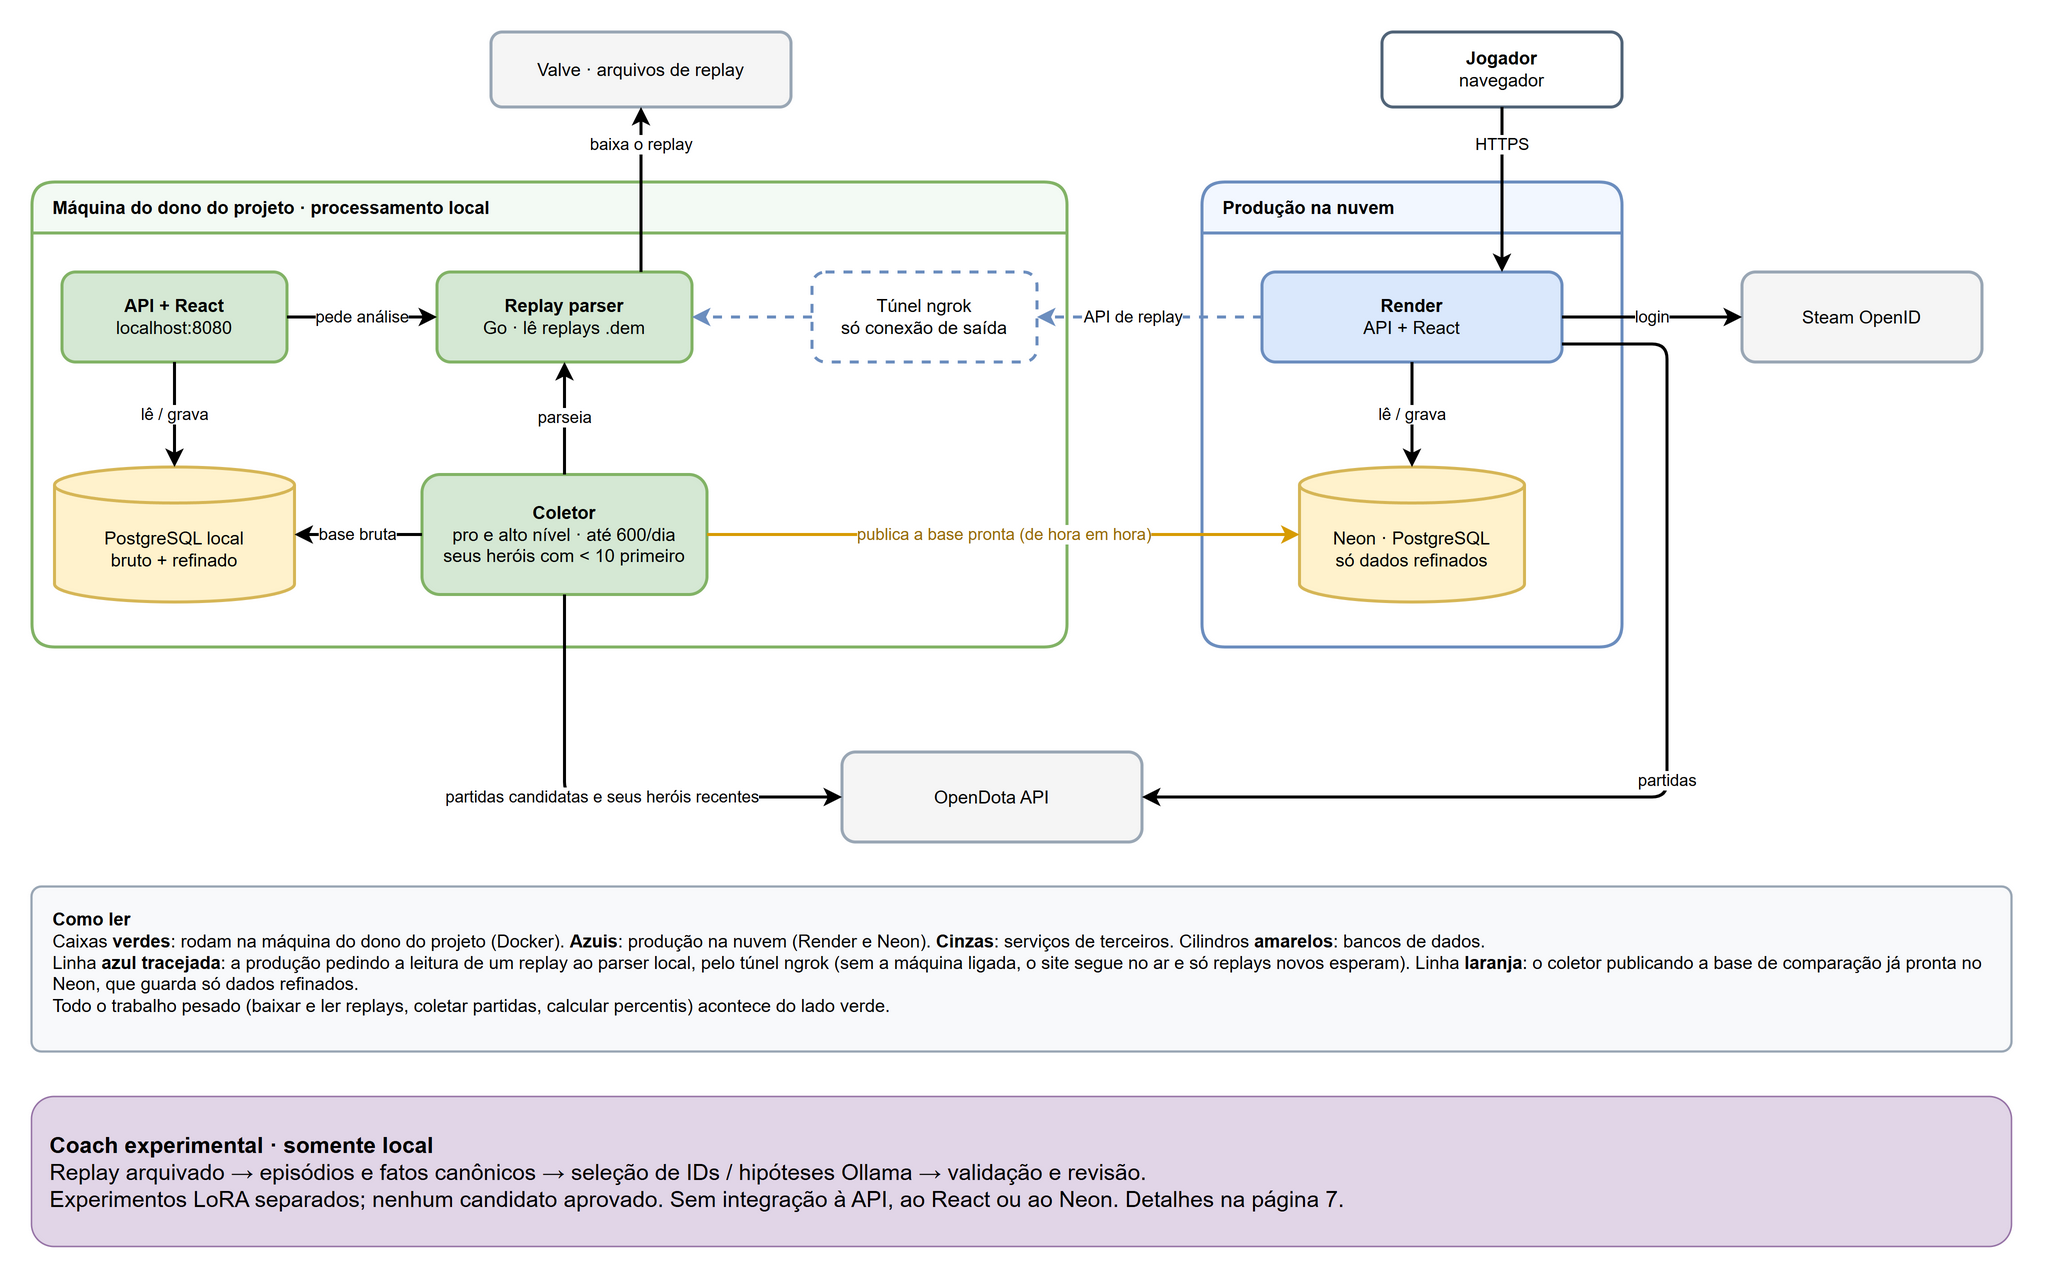
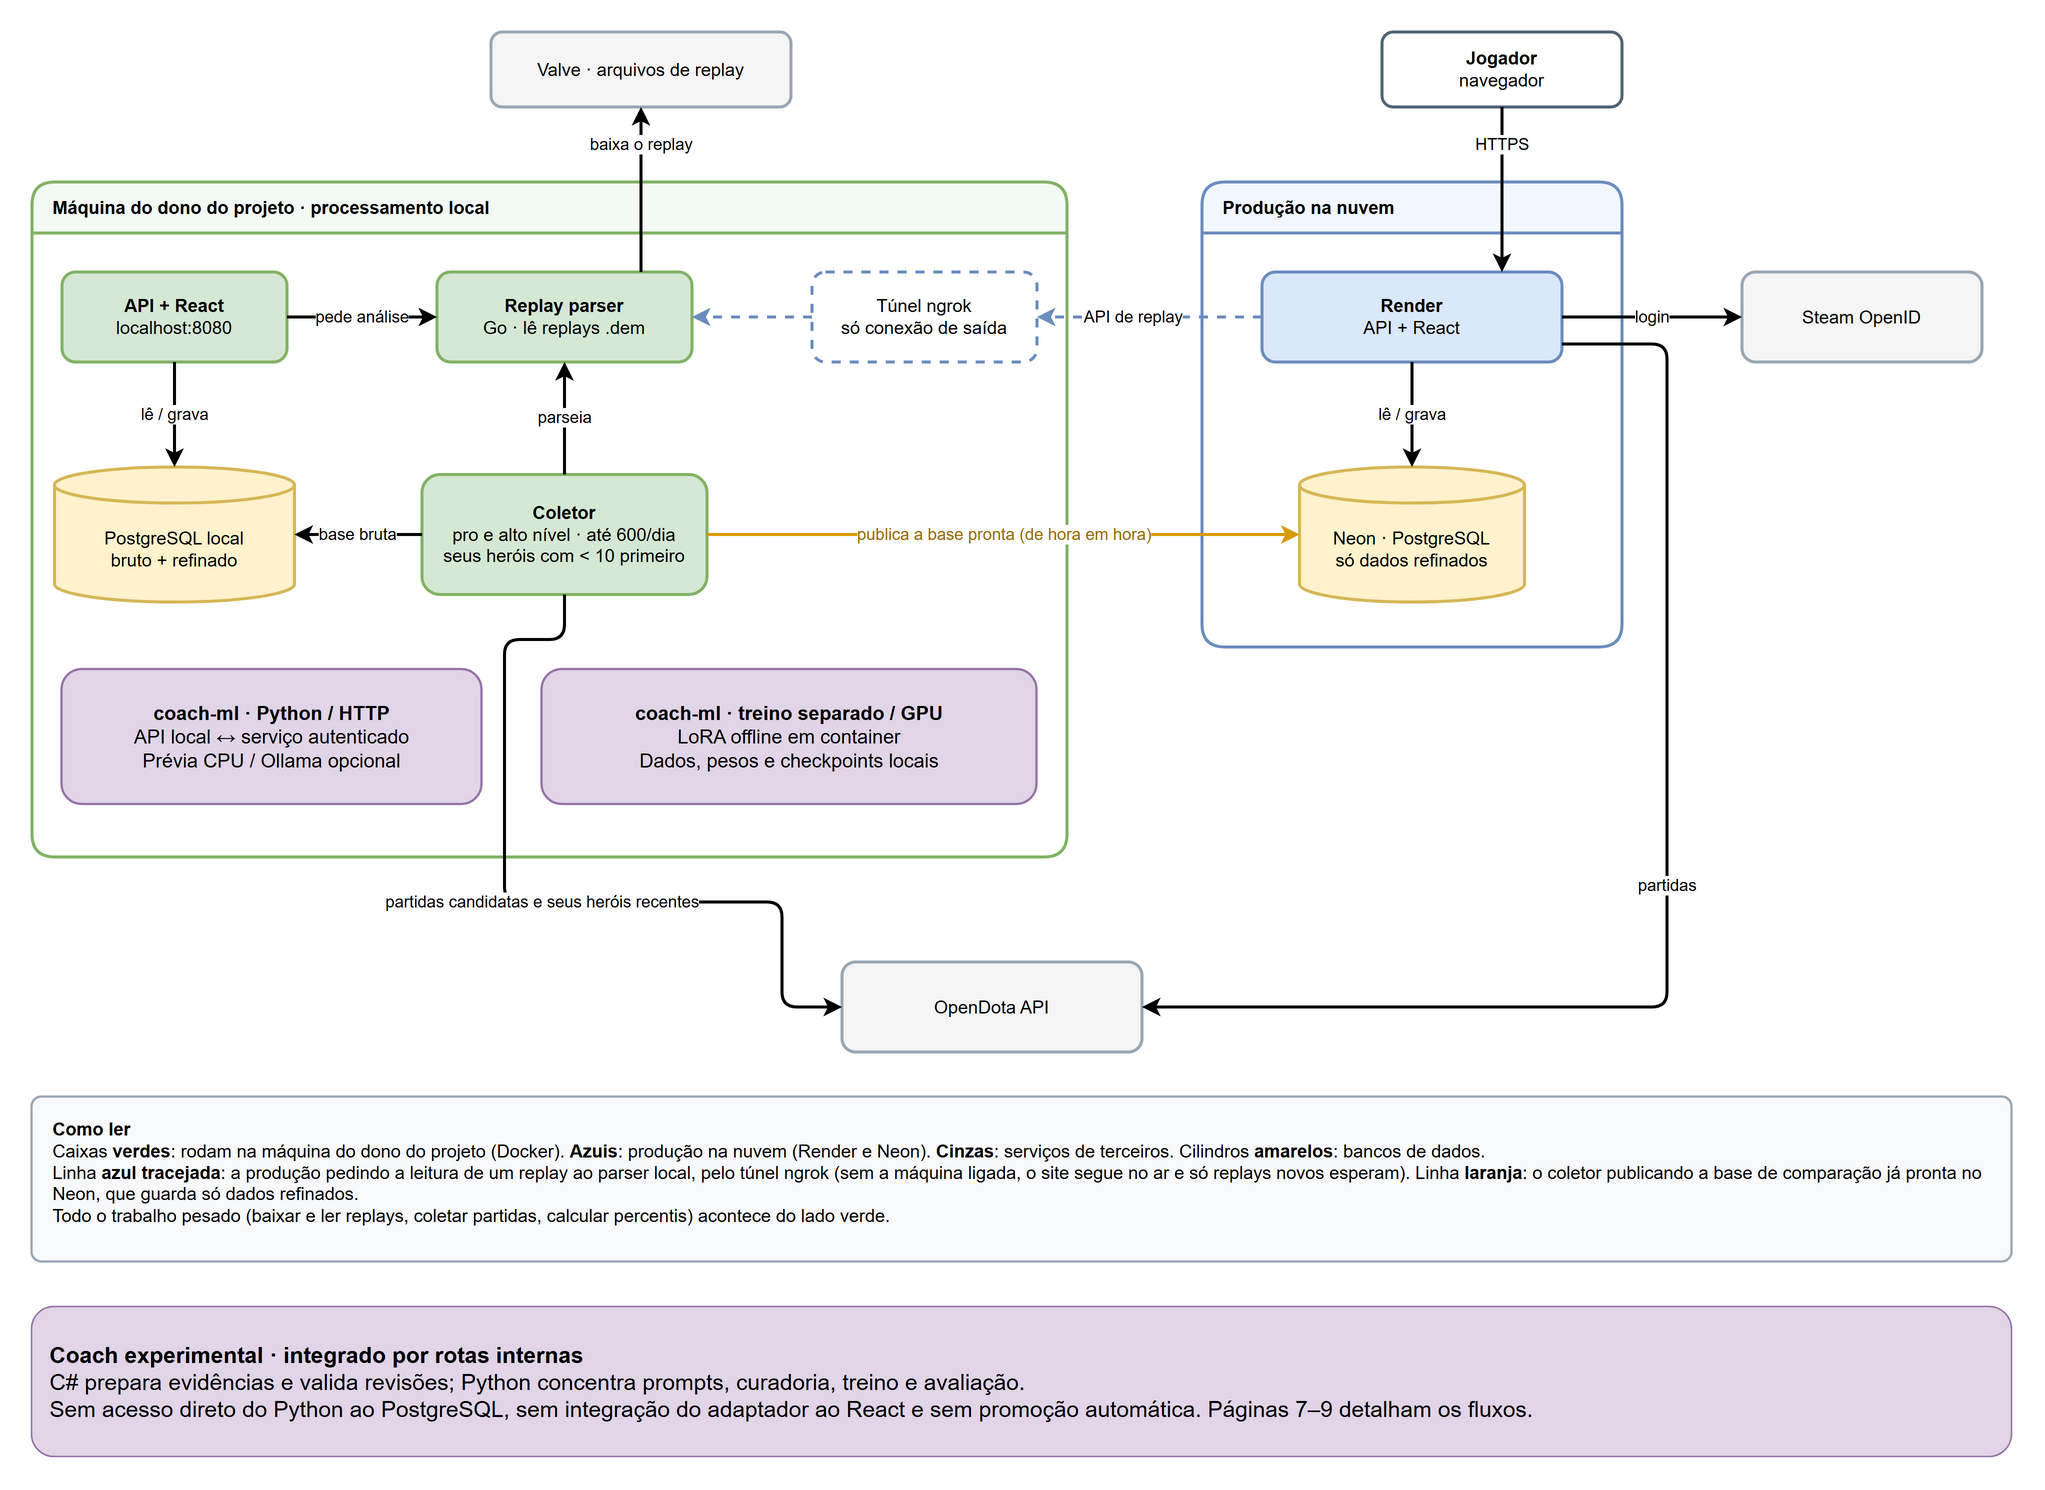
docs: update architecture diagrams for Python coaching and training

diff --git a/README.md b/README.md
@@ -36,7 +36,7 @@ O backend inclui um fluxo experimental para a aba **Como melhorar**, integrado p
 
 Os contratos e testes ficam nas pastas `Coaching` de Domain, Application e Infrastructure. O projeto [coach-ml](coach-ml/README.md) concentra curadoria, auditoria, treino, avaliação e serviço HTTP Python. A API C# entrega contextos de replays arquivados e consome revisões por rotas internas autenticadas; o Python pode buscar esses contextos por callback. O perfil Docker `coach-ml` inicia o serviço, com prévia por política em CPU por padrão e Ollama configurável. As dicas públicas continuam nas regras existentes. Dados, conjuntos de avaliação e pesos locais não são distribuídos pelo repositório; `docker compose up` não inicia treino nem instala modelos.
 
-A [estrutura de aprendizado](docs/coach-learning.md) documenta a separação entre dados, curadoria, treino e avaliação. O projeto Python audita treino/validação juntos, produz conjuntos sem entradas repetidas, confere orçamento de tokens e avalia previsões por competência. Esses controles verificam integridade e limites dos exemplos, sem conceder aprovação tática.
+A [documentação do coach-ml](coach-ml/README.md) descreve a separação entre dados, curadoria, treino e avaliação. O projeto Python audita treino/validação juntos, produz conjuntos sem entradas repetidas, confere orçamento de tokens e avalia previsões por competência. Esses controles verificam integridade e limites dos exemplos, sem conceder aprovação tática.
 
 O próximo experimento usa seis competências e uma política contextual versionada: cada exercício aponta para instantes/registros concretos e pede uma anotação verificável no replay. São 34.827 exemplos de treino e 3.442 de validação nas mesmas 968/96 partidas. **Registro de 18/10/2026:** o treino Python em container, na GPU, foi iniciado e pausado a pedido do usuário em 42,9%; o ensaio GPU e o primeiro checkpoint passaram nas verificações. Esse registro não é um indicador de execução em tempo real. Não há modelo treinado promovido ao serviço nem aprendizado automático a cada replay.
 
@@ -146,7 +146,7 @@ Regras de arquitetura, decisões e detalhes de cada parte: [`CLAUDE.md`](CLAUDE.
 
 ## Diagramas
 
-Os diagramas abaixo são exibidos diretamente no README. O arquivo-fonte editável está em [`docs/diagrams/dotaanalyst.drawio`](docs/diagrams/dotaanalyst.drawio) e pode ser aberto no draw.io.
+Os diagramas abaixo são exibidos diretamente no README. O arquivo-fonte editável, com nove páginas, está em [`docs/diagrams/dotaanalyst.drawio`](docs/diagrams/dotaanalyst.drawio) e pode ser aberto no draw.io. O [índice e as instruções de exportação](docs/diagrams/README.md) mantêm as imagens alinhadas à fonte.
 
 ### Arquitetura
 
@@ -158,11 +158,23 @@ Os diagramas abaixo são exibidos diretamente no README. O arquivo-fonte editáv
 
 ### Coach experimental
 
-O fluxo abaixo é local e separado da análise servida ao jogador. Revisão estrutural e avaliação de conteúdo são etapas distintas; os experimentos de treino ainda não produziram um candidato aprovado.
+O fluxo abaixo usa integração interna autenticada entre C# e Python. O serviço de revisão é separado do treinador; as dicas públicas seguem as regras existentes. Validação estrutural e avaliação de conteúdo são etapas distintas, sem adaptador promovido ao produto.
 
 A observação determinística e o contrato de reflexão v2 permanecem preservados. A projeção qualitativa v3 (`PrepareBoundedCoaching`) distingue disponibilidade de distância na âncora e cobertura do episódio posterior; `PrepareAliasedCoaching` substitui IDs por aliases e restaura as referências no backend. A projeção temporal v4 (`PrepareTemporalCoaching`) compara a distância registrada ao mesmo aliado entre a âncora e dez segundos antes, informa a cobertura intermediária e mantém valores e tempos de proveniência no backend. Essas amostras não reconstroem trajeto, visão, intenção ou causa do resultado. Validação de formato e referências não aprova o conteúdo tático.
 
-![Coach experimental: episódios, fatos canônicos, reflexão e avaliação antes de qualquer promoção](docs/diagrams/images/coaching.png)
+![Coach experimental: evidências no C#, revisão Python, validação e limites do produto](docs/diagrams/images/coaching.png)
+
+### Curadoria, treinamento e avaliação do modelo
+
+O Python separa partidas, prepara os exemplos, audita dados e orçamento de tokens, confere o pior microbatch na GPU e congela o experimento. O treino salva checkpoints selados; a comparação base versus adaptado e o review vêm antes de qualquer decisão de promoção. O teste reservado permanece separado.
+
+![Pipeline Python: corpus, curadoria, auditoria, preparo GPU, LoRA, checkpoints, avaliação e review](docs/diagrams/images/coach-training.png)
+
+### Integração interna C# e Python
+
+Há dois caminhos: C# envia as evidências preparadas ao Python, ou Python recebe partida/herói e busca o contexto arquivado por callback autenticado. Nenhum deles oferece acesso direto do Python ao banco ou inicia treinamento.
+
+![Rotas autenticadas de revisão e callback entre C# e Python](docs/diagrams/images/coach-integration.png)
 
 ### Fluxo da análise
 

diff --git a/docs/diagrams/README.md b/docs/diagrams/README.md
@@ -1,0 +1,27 @@
+# Diagramas do DotaAnalyst
+
+Fonte editável: [dotaanalyst.drawio](dotaanalyst.drawio). As imagens PNG do README são exportadas dessa fonte, sem redesenho separado. Os diagramas descrevem responsabilidades e contratos; não são indicadores de disponibilidade ou progresso de serviços.
+
+| Página | Índice CLI | Imagem | Escopo |
+|---|---:|---|---|
+| 1. Arquitetura | 1 | [architecture.png](images/architecture.png) | Processamento local, nuvem, Python HTTP e treino separado |
+| 2. Camadas DDD | 2 | [ddd-layers.png](images/ddd-layers.png) | Dependências .NET e limite com Python |
+| 3. Fluxo da análise | 3 | [match-analysis.png](images/match-analysis.png) | Análise pública e processamento de replay |
+| 4. Base de comparação | 4 | [comparison-baseline.png](images/comparison-baseline.png) | Coleta, agregação e publicação |
+| 5. Login Steam | 5 | [steam-login.png](images/steam-login.png) | Autenticação pública |
+| 6. Banco de dados | 6 | [database.png](images/database.png) | Dados locais e refinados |
+| 7. Coach experimental | 7 | [coaching.png](images/coaching.png) | Evidências C#, revisão Python e validação |
+| 8. Curadoria, treino e avaliação | 8 | [coach-training.png](images/coach-training.png) | Dados, congelamento, GPU, checkpoints e comparação |
+| 9. Integração interna | 9 | [coach-integration.png](images/coach-integration.png) | Rotas e callbacks autenticados |
+
+## Exportar
+
+No draw.io Desktop, exporte a página desejada como PNG com escala 150% e margem 20. Pela CLI, na raiz do repositório, o equivalente para a página 8 é:
+
+```powershell
+& 'C:/Program Files/draw.io/draw.io.exe' --disable-gpu --export --format png --page-index 8 --scale 1.5 --border 20 --output docs/diagrams/images/coach-training.png docs/diagrams/dotaanalyst.drawio
+```
+
+A tabela usa a numeração a partir de 1, exigida pelo draw.io Desktop desde a versão 27.0.2; versões anteriores usavam índices a partir de 0. Ajuste o executável ao seu sistema. No Windows, automações podem iniciar esse comando com janela oculta. Depois de exportar, confira a imagem, os textos, os conectores e os links do README. Mudanças em login, banco ou análise pública só precisam alterar essas páginas se os respectivos contratos mudarem.
+
+As chamadas C# ↔ Python usam chave de máquina, independente da sessão Steam. O serviço HTTP não treina nem instala adaptadores automaticamente. O treinamento usa outra execução/container, com cache offline e pesos separados; formatos corretos e loss baixa não aprovam qualidade tática. Veja [a documentação do coach-ml](../../coach-ml/README.md) para os limites de cada etapa.
